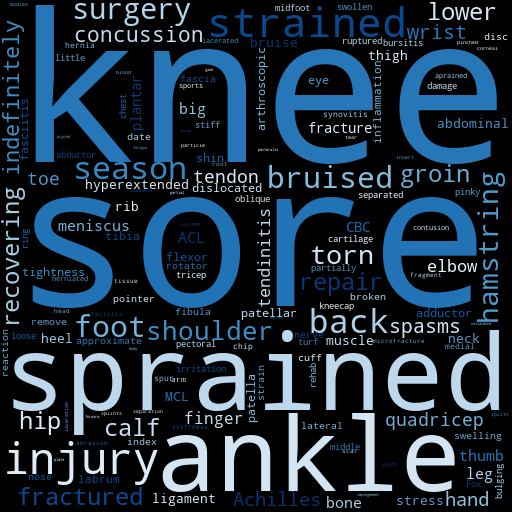
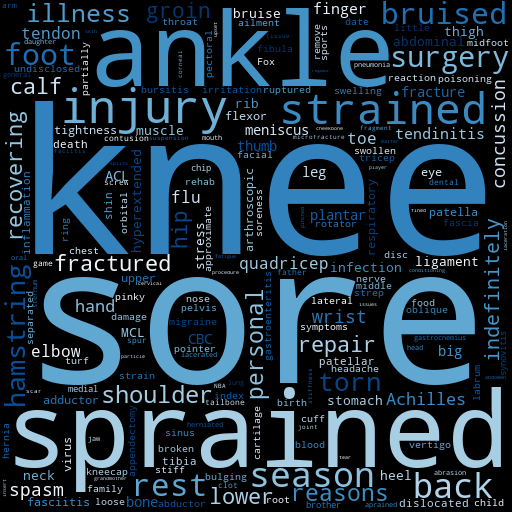
update

diff --git a/src/d04_visualization/plot_word_cloud.py b/src/d04_visualization/plot_word_cloud.py
@@ -44,7 +44,7 @@ injury_df['Tot_games_missed'] = injury_df['Reg_games_missed'] + injury_df['Post_
 injury_df = injury_df[injury_df['MPPG'] > 10.0]
 
 #Exclude those 'injuries' which are not relevant (healthy scratches, rest, sick, n/a, other)
-injury_df = injury_df[~ injury_df['category'].isin(['healthy inactive','rest','sick','other','n/a'])]
+#injury_df = injury_df[~ injury_df['category'].isin(['healthy inactive','rest','sick','other','n/a'])]
 
 
 #------------------------Make plots-------------------------------------------
